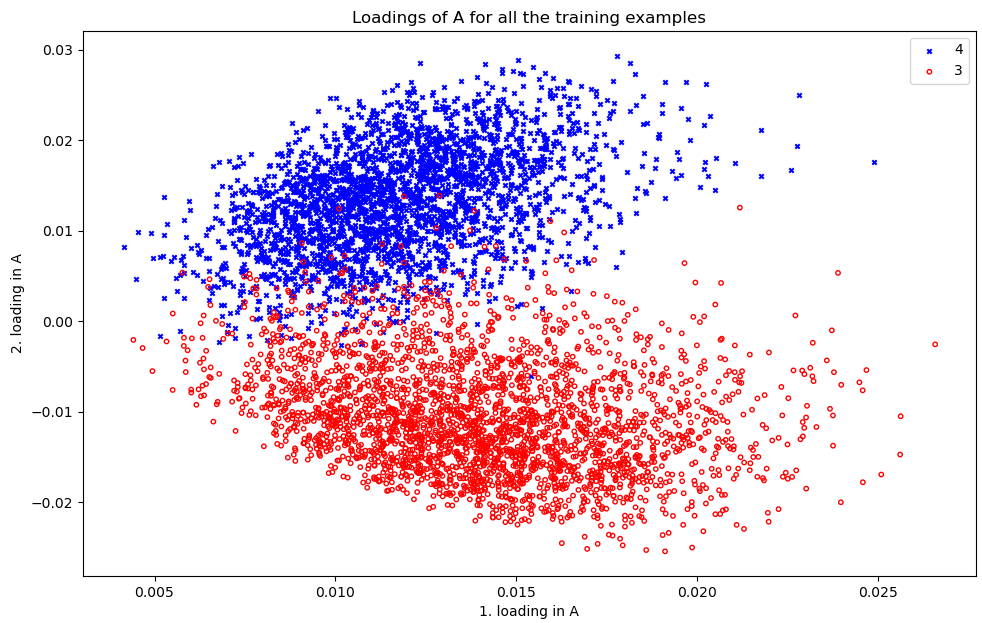
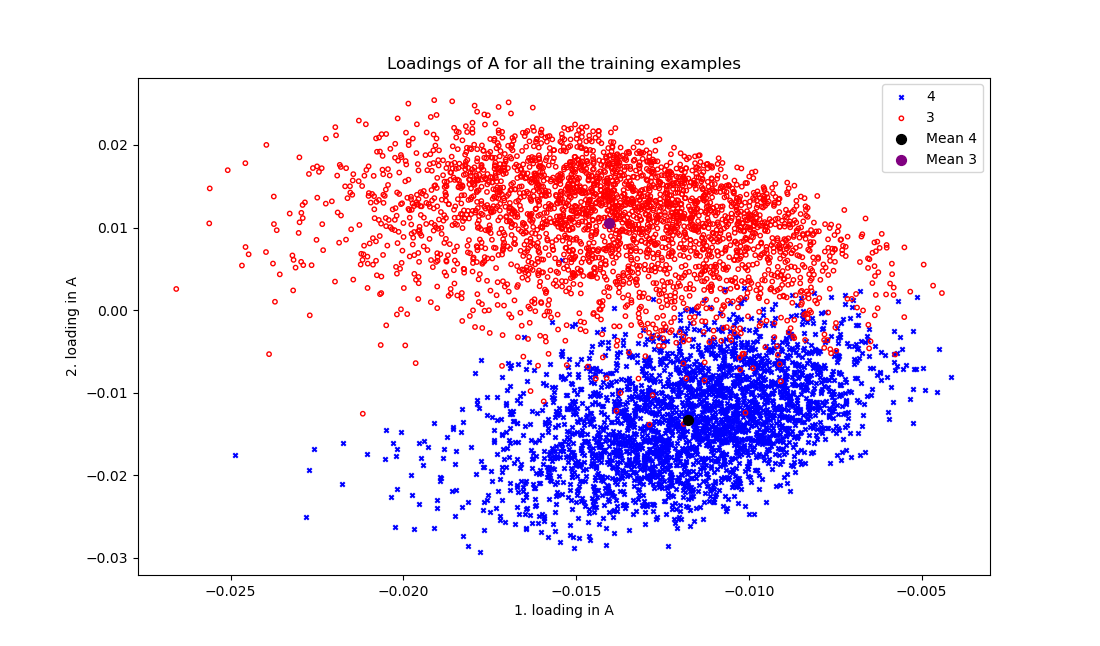
Updated figure

diff --git a/Classifying MNIST/trying_m_digits.py b/Classifying MNIST/trying_m_digits.py
@@ -75,7 +75,11 @@ A3s = A[tc.where(Y_sub[:nTrain] == 0)[0]]
 A4s = A[tc.where(Y_sub[:nTrain] == 1)[0]]
 plt.scatter(A4s[:,0], A4s[:,1], facecolor = 'Blue', edgecolor='blue', marker = "x",s = 10)   
 plt.scatter(A3s[:,0], A3s[:,1], facecolor = 'None', edgecolor='red', s = 10)
-plt.legend(labels = ('4','3'))
+m4s = tc.mean(A4s, 0)
+m3s = tc.mean(A3s, 0)
+plt.scatter(m4s[0],m4s[1], facecolor="Black", s = 50)
+plt.scatter(m3s[0],m3s[1], facecolor="Purple", s = 50)
+plt.legend(labels = ('4','3','Mean 4','Mean 3'))
 plt.xlabel('1. loading in A')         
 plt.ylabel('2. loading in A')
 plt.title('Loadings of A for all the training examples')
